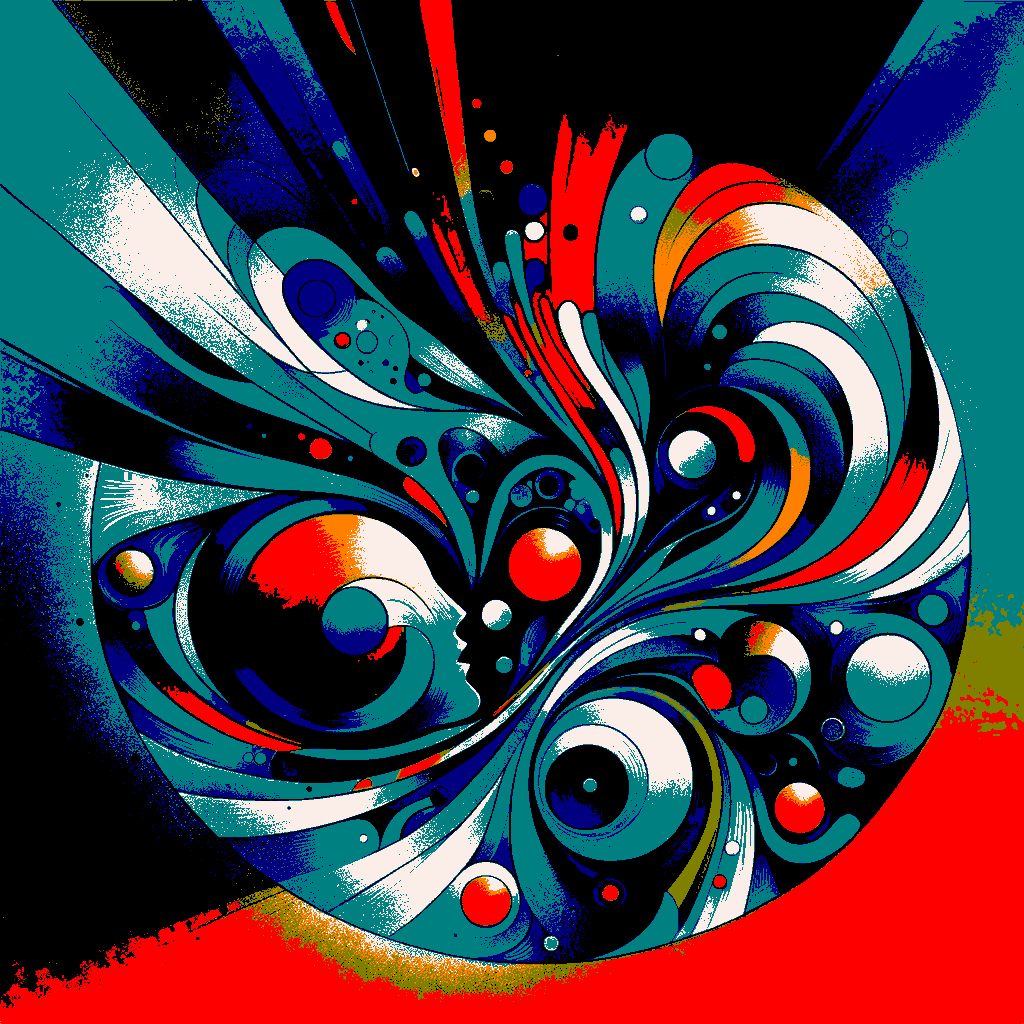
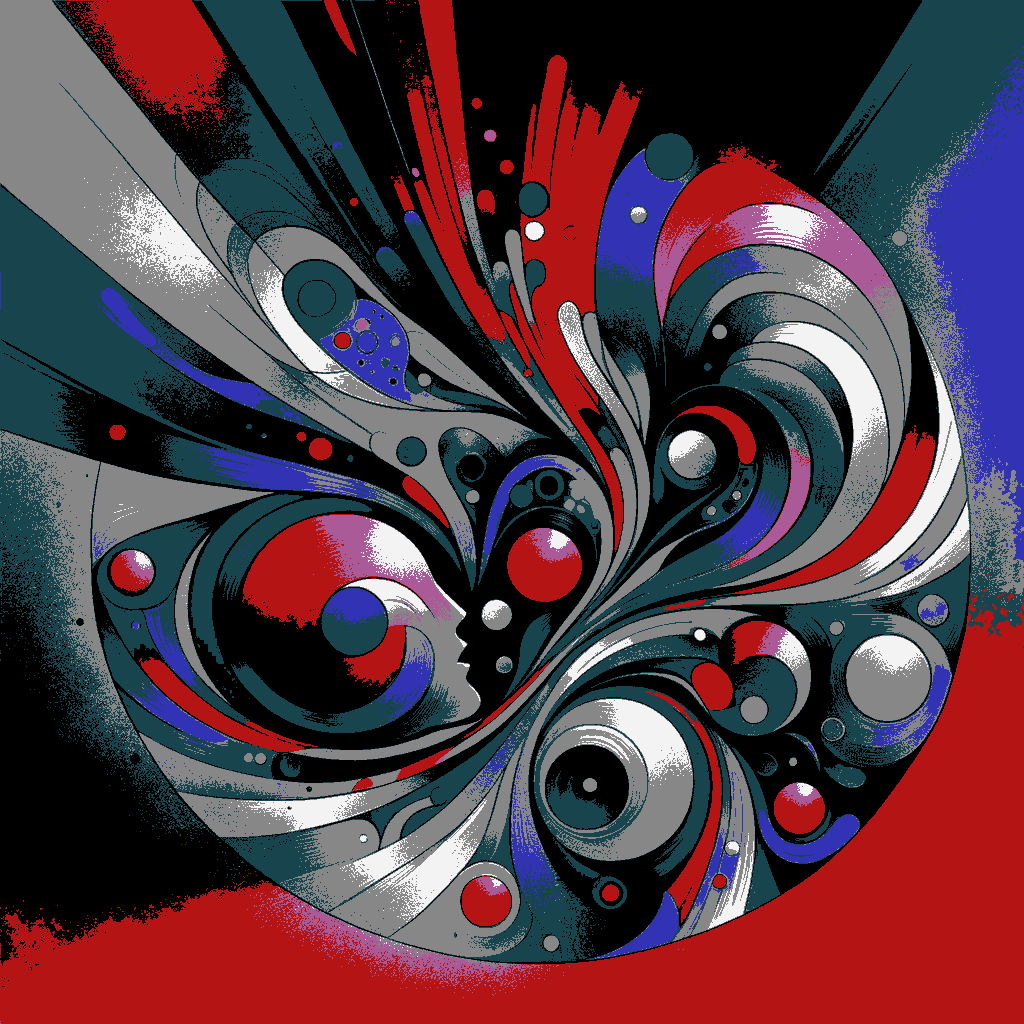
g-code generator // color quantization is functional!

diff --git a/G-Code Generator/Image Processing/color_quantization.py b/G-Code Generator/Image Processing/color_quantization.py
@@ -1,5 +1,6 @@
 import cv2
 import numpy as np
+import time
 from sklearn.cluster import KMeans
 
 
@@ -69,19 +70,37 @@ def replace_colors(image, centroids, mapped_colors):
     return new_image
 
 
-def color_reduction_with_kmeans(image_path, preset_colors, num_clusters=100):
+def color_reduction_with_kmeans(
+    image_path, preset_colors, num_clusters=18, max_image_size=1024
+):
     """
     Apply color reduction using K-means clustering and a preset color palette.
 
     :param image_path: Path to the image file.
     :param preset_colors: Preset array of colors.
     :param num_clusters: Number of clusters for K-means.
+    :param max_image_size: Maximum size to which the image is resized.
     :return: Image with reduced color palette.
     """
     # Read the image
     image = cv2.imread(image_path)
     if image is None:
         raise ValueError("Could not read the image.")
+
+    # Resize if the image is too large
+    height, width = image.shape[:2]
+    if max(height, width) > max_image_size:
+        scaling_factor = max_image_size / max(height, width)
+        image = cv2.resize(
+            image,
+            None,
+            fx=scaling_factor,
+            fy=scaling_factor,
+            interpolation=cv2.INTER_AREA,
+        )
+
+    # Convert BGR to RGB
+    image = cv2.cvtColor(image, cv2.COLOR_BGR2RGB)
 
     # Apply K-means clustering
     centroids = k_means_cluster_colors(image, num_clusters)
@@ -91,6 +110,9 @@ def color_reduction_with_kmeans(image_path, preset_colors, num_clusters=100):
 
     # Replace colors in the image
     reduced_image = replace_colors(image, centroids, mapped_colors)
+
+    # Convert back to BGR for saving
+    reduced_image = cv2.cvtColor(reduced_image, cv2.COLOR_RGB2BGR)
 
     return reduced_image
 
@@ -105,33 +127,42 @@ def save_image(image, output_path):
     cv2.imwrite(output_path, image)
 
 
-# Define your 12 preset colors (example RGB values)
+# Preset List of colors
 preset_colors = np.array(
     [
         [0, 0, 0],  # Black
-        [232, 238, 251],  # Grey
-        [255, 0, 0],  # Red
-        [0, 128, 0],  # Green (Darker Shade)
-        [0, 0, 255],  # Blue
-        [0, 255, 255],  # Cyan
-        [255, 0, 255],  # Magenta
-        [255, 255, 0],  # Yellow
-        [255, 165, 0],  # Orange
-        [128, 128, 0],  # Olive Green
-        [0, 128, 128],  # Teal
+        [135, 135, 135],  # Grey
+        [180, 20, 20],  # Red
+        [50, 160, 50],  # Green
+        [50, 50, 180],  # Blue
+        [60, 224, 224],  # Cyan
+        [125, 47, 228],  # Purple
+        [218, 218, 40],  # Yellow
+        [255, 137, 38],  # Orange
+        [243, 243, 243],  # Light Grey
+        [24, 69, 77],  # Teal
         [0, 127, 255],  # Azure
-        [128, 0, 0],  # Maroon
+        [170, 90, 150],  # Pink
     ]
 )
 
 # Example usage
 if __name__ == "__main__":
     input_image_path = "G-Code Generator/Assets/img_4.png"
-    output_image_path = "G-Code Generator/Assets/img_3_quantized.png"
+    output_image_path = "G-Code Generator/Assets/img_4_quantized.png"
 
     try:
+        start_time = time.time()  # Starting the timer
+
         processed_image = color_reduction_with_kmeans(input_image_path, preset_colors)
         save_image(processed_image, output_image_path)
-        print("Image processed and saved successfully.")
+
+        end_time = time.time()  # Ending the timer
+        duration = end_time - start_time  # Calculating the duration of the process
+
+        print(
+            f"Image processed and saved successfully. Time taken: {duration:.2f} seconds."
+        )
+
     except Exception as e:
         print("Error:", e)
